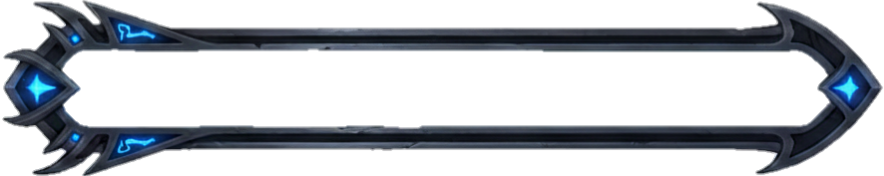
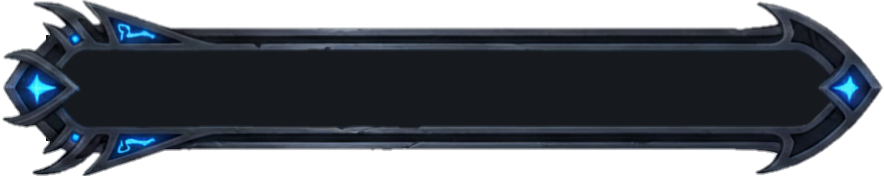
feat: Add current/max mana text display to the HUD, update its UI layout and background image, and ignore the `bin` directory.

diff --git a/src/main/java/com/cookie/runecore/systems/ui/ManaHud.java b/src/main/java/com/cookie/runecore/systems/ui/ManaHud.java
@@ -8,8 +8,9 @@ import javax.annotation.Nonnull;
 
 public class ManaHud extends CustomUIHud {
 
-    private float manaValue = 1.0f; // This is the displayed value
-    private float targetManaValue = 1.0f; // This is the actual value we want to reach
+    private float manaValue = 1.0f; // This is the displayed ratio (0-1)
+    private float targetManaValue = 1.0f; 
+    private float maxManaValue = 100.0f; 
 
     public ManaHud(@Nonnull PlayerRef playerRef) {
         super(playerRef);
@@ -21,8 +22,9 @@ public class ManaHud extends CustomUIHud {
             // Load the UI layout using namespaced path
             builder.append("MANA/Mana.ui");
             
-            // Set the mana bar value based on the current state
+            // Set the mana bar value and label text based on current state
             builder.set("#ManaBar.Value", this.manaValue);
+            builder.set("#ManaText.Text", getFormattedManaText());
             System.out.println("[RuneCore-HUD] Building mana hud with value: " + this.manaValue);
         } catch (Exception e) {
             e.printStackTrace();
@@ -31,11 +33,11 @@ public class ManaHud extends CustomUIHud {
     
     public void updateMana(float current, float max) {
         this.targetManaValue = Math.max(0, Math.min(1.0f, current / max));
+        this.maxManaValue = max;
         
         // If the displayed value is different from the target, move it closer
         if (Math.abs(this.manaValue - this.targetManaValue) > 0.001f) {
             
-            // "Perco 1 por 1" - Let's use a step of 0.05 (5% of bar) per tick for speed and smoothness
             float step = 0.05f; 
             
             if (this.manaValue < this.targetManaValue) {
@@ -44,12 +46,18 @@ public class ManaHud extends CustomUIHud {
                 this.manaValue = Math.max(this.targetManaValue, this.manaValue - step);
             }
 
-            // System.out.println("[RuneCore-HUD] Animating mana: " + this.manaValue + " -> " + this.targetManaValue);
-            
             UICommandBuilder builder = new UICommandBuilder();
             builder.set("#ManaBar.Value", this.manaValue);
+            builder.set("#ManaText.Text", getFormattedManaText());
+            
             // Use false for reset to update the existing UI without rebuilding the whole layout
             this.update(false, builder); 
         }
+    }
+
+    private String getFormattedManaText() {
+        int current = (int) (this.manaValue * this.maxManaValue);
+        int max = (int) this.maxManaValue;
+        return current + "/" + max;
     }
 }
